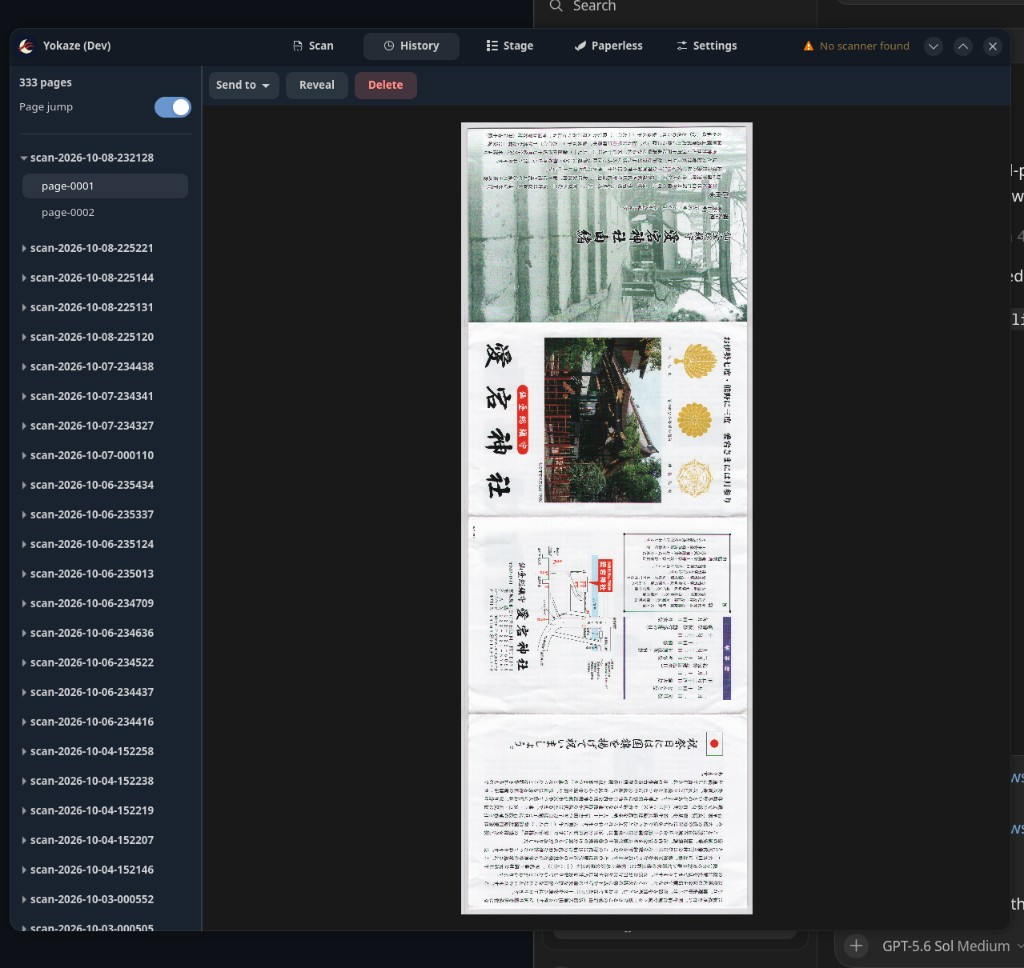
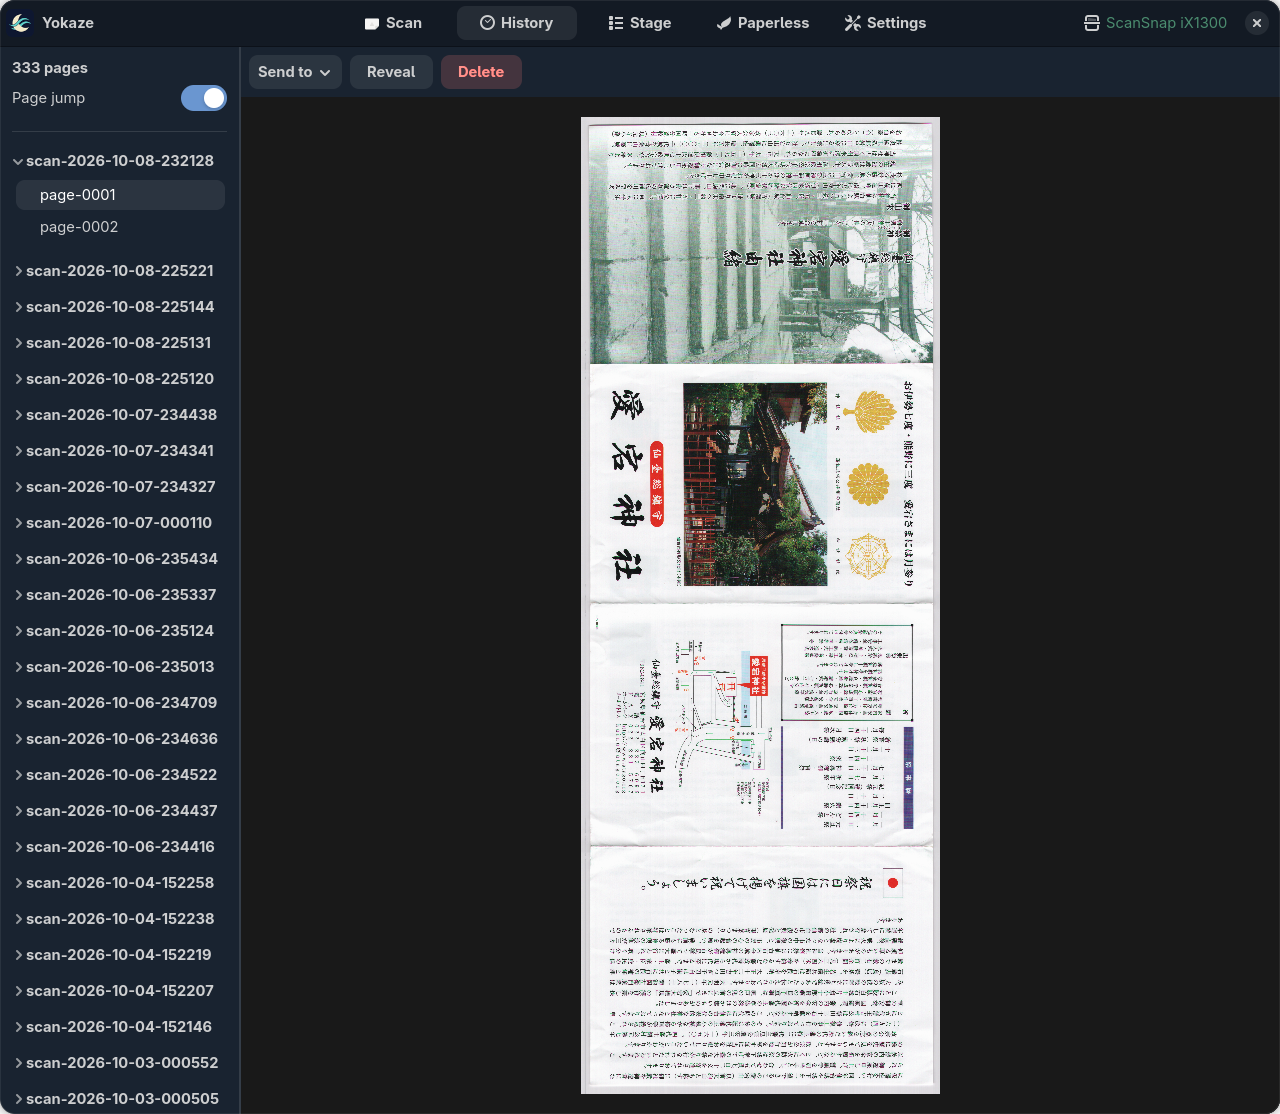
Release v1.0.5

diff --git a/README.md b/README.md
@@ -42,8 +42,6 @@ need backend-specific adaptation.
 5. **Come back later** — History preserves the raw capture. Reprocess it with
    newer cleanup logic, or rebuild a delivered Paperless document and replace it.
 
-![Yokaze History screen](docs/screenshots/yokaze-history.png)
-
 ## Features
 
 ### Capture without babysitting
@@ -81,7 +79,7 @@ SANE capture → blank detection → rough crop → orientation → deskew
 
 ### Stage: build the document you actually want
 
-![Yokaze Paperless delivery screen](docs/screenshots/yokaze-paperless.png)
+![Yokaze Stage screen](docs/screenshots/yokaze-stage.png)
 
 Stage is a durable page tray between scanning and delivery:
 
@@ -97,6 +95,8 @@ Stage is a durable page tray between scanning and delivery:
 
 ### History: raw scans stay useful
 
+![Yokaze History screen](docs/screenshots/yokaze-history.png)
+
 - Browse every archived scan and page.
 - Reveal an archive in the file manager or delete it from Yokaze.
 - Send the recorded historical result again.
@@ -105,6 +105,8 @@ Stage is a durable page tray between scanning and delivery:
   mixing with other scans.
 
 ### Paperless-ngx, including “clawback”
+
+![Yokaze Paperless delivery screen](docs/screenshots/yokaze-paperless.png)
 
 Yokaze records the page composition of successful Paperless uploads. The
 Paperless tab can **Restage** a delivered document from its original archives,
